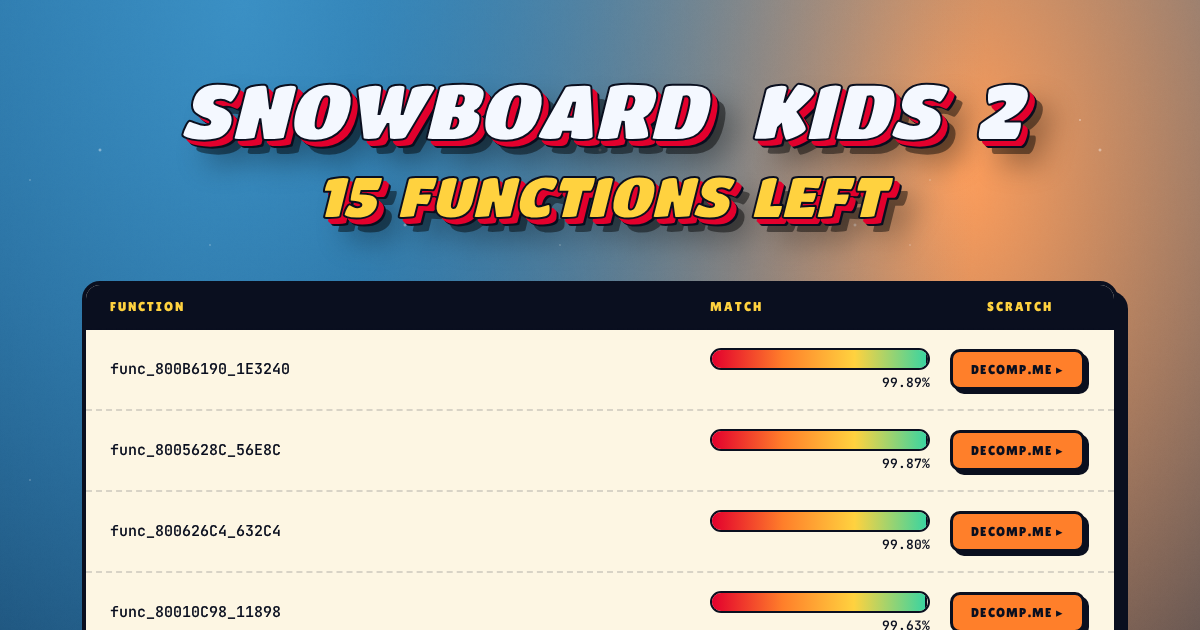
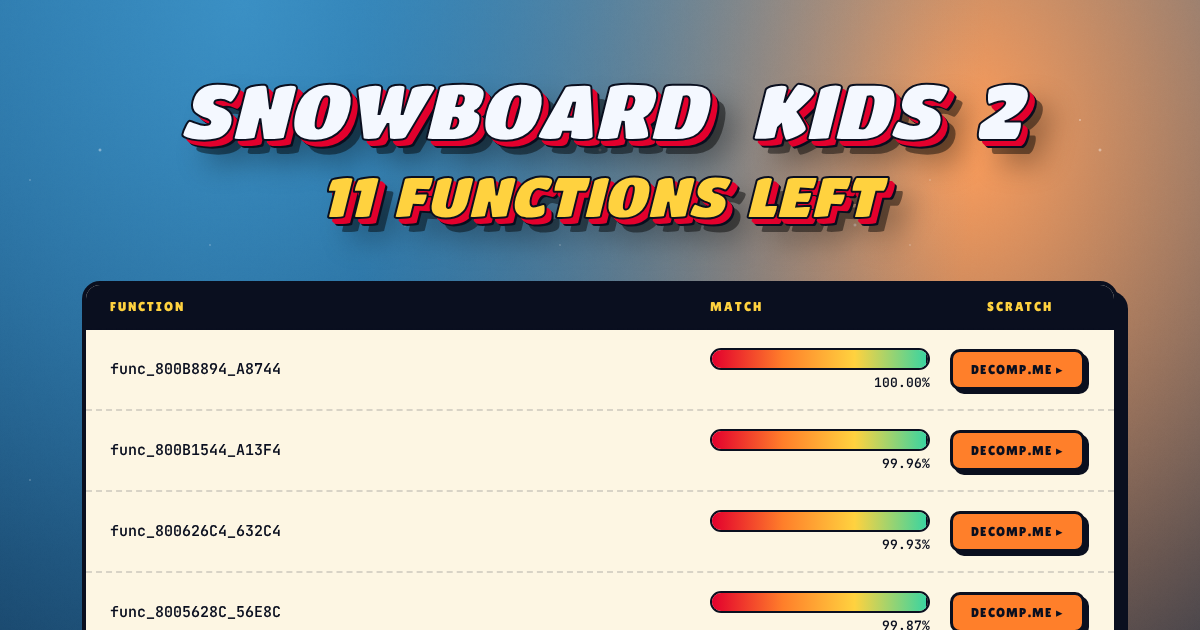
Add og:title and og:description meta tags to leaderboard page

diff --git a/docs/index.html b/docs/index.html
@@ -4,6 +4,8 @@
     <meta charset="UTF-8" />
     <meta name="viewport" content="width=device-width, initial-scale=1.0" />
     <title>Snowboard Kids 2 — Remaining Functions</title>
+    <meta property="og:title" content="Snowboard Kids 2 — 11 FUNCTIONS Left" />
+    <meta property="og:description" content="Snowboard Kids 2 matching decompilation progress tracker" />
     <meta property="og:image" content="og.png" />
 
     <link rel="preconnect" href="https://fonts.googleapis.com" />
@@ -302,7 +304,7 @@
             ><span>&nbsp;&nbsp;</span><span>2</span></span
           >
         </span>
-        <span class="line2"><span class="word w1"><span>1</span><span>5</span></span><span class="word w2"><span>F</span><span>U</span><span>N</span><span>C</span><span>T</span><span>I</span><span>O</span><span>N</span><span>S</span></span><span class="word w3"><span>L</span><span>E</span><span>F</span><span>T</span></span></span>
+        <span class="line2"><span class="word w1"><span>1</span><span>1</span></span><span class="word w2"><span>F</span><span>U</span><span>N</span><span>C</span><span>T</span><span>I</span><span>O</span><span>N</span><span>S</span></span><span class="word w3"><span>L</span><span>E</span><span>F</span><span>T</span></span></span>
       </h1>
     </header>
 
@@ -314,9 +316,19 @@
           <div style="text-align:center">Scratch</div>
         </div>
         <div class="board-row">
-          <div><div class="fn-name">func_800B6190_1E3240</div></div>
-          <div><div class="match-bar"><div class="match-fill" style="width:99.9%"></div></div><div class="match-num">99.89%</div></div>
-          <div><a class="scratch-btn" href="https://decomp.me/scratch/R1FVL" target="_blank" rel="noopener">decomp.me ▸</a></div>
+          <div><div class="fn-name">func_800B8894_A8744</div></div>
+          <div><div class="match-bar"><div class="match-fill" style="width:100.0%"></div></div><div class="match-num">100.00%</div></div>
+          <div><a class="scratch-btn" href="https://decomp.me/scratch/ITOFd" target="_blank" rel="noopener">decomp.me ▸</a></div>
+        </div>
+        <div class="board-row">
+          <div><div class="fn-name">func_800B1544_A13F4</div></div>
+          <div><div class="match-bar"><div class="match-fill" style="width:100.0%"></div></div><div class="match-num">99.96%</div></div>
+          <div><a class="scratch-btn" href="https://decomp.me/scratch/0pMCn" target="_blank" rel="noopener">decomp.me ▸</a></div>
+        </div>
+        <div class="board-row">
+          <div><div class="fn-name">func_800626C4_632C4</div></div>
+          <div><div class="match-bar"><div class="match-fill" style="width:99.9%"></div></div><div class="match-num">99.93%</div></div>
+          <div><a class="scratch-btn" href="https://decomp.me/scratch/172v6" target="_blank" rel="noopener">decomp.me ▸</a></div>
         </div>
         <div class="board-row">
           <div><div class="fn-name">func_8005628C_56E8C</div></div>
@@ -324,29 +336,14 @@
           <div><a class="scratch-btn" href="https://decomp.me/scratch/lg3Jr" target="_blank" rel="noopener">decomp.me ▸</a></div>
         </div>
         <div class="board-row">
-          <div><div class="fn-name">func_800626C4_632C4</div></div>
-          <div><div class="match-bar"><div class="match-fill" style="width:99.8%"></div></div><div class="match-num">99.80%</div></div>
-          <div><a class="scratch-btn" href="https://decomp.me/scratch/aw3nY" target="_blank" rel="noopener">decomp.me ▸</a></div>
-        </div>
-        <div class="board-row">
           <div><div class="fn-name">func_80010C98_11898</div></div>
           <div><div class="match-bar"><div class="match-fill" style="width:99.6%"></div></div><div class="match-num">99.63%</div></div>
           <div><a class="scratch-btn" href="https://decomp.me/scratch/ALcTm" target="_blank" rel="noopener">decomp.me ▸</a></div>
         </div>
         <div class="board-row">
-          <div><div class="fn-name">func_80022D74_23974</div></div>
-          <div><div class="match-bar"><div class="match-fill" style="width:99.3%"></div></div><div class="match-num">99.28%</div></div>
-          <div><a class="scratch-btn" href="https://decomp.me/scratch/Knuos" target="_blank" rel="noopener">decomp.me ▸</a></div>
-        </div>
-        <div class="board-row">
           <div><div class="fn-name">updateAndRenderRaceCharacters</div></div>
           <div><div class="match-bar"><div class="match-fill" style="width:98.9%"></div></div><div class="match-num">98.94%</div></div>
           <div><a class="scratch-btn" href="https://decomp.me/scratch/Oc7R6" target="_blank" rel="noopener">decomp.me ▸</a></div>
-        </div>
-        <div class="board-row">
-          <div><div class="fn-name">func_800B8894_A8744</div></div>
-          <div><div class="match-bar"><div class="match-fill" style="width:98.9%"></div></div><div class="match-num">98.87%</div></div>
-          <div><a class="scratch-btn" href="https://decomp.me/scratch/FN35S" target="_blank" rel="noopener">decomp.me ▸</a></div>
         </div>
         <div class="board-row">
           <div><div class="fn-name">func_800B3FFC_1E10AC</div></div>
@@ -359,9 +356,9 @@
           <div><a class="scratch-btn" href="https://decomp.me/scratch/oxXWc" target="_blank" rel="noopener">decomp.me ▸</a></div>
         </div>
         <div class="board-row">
-          <div><div class="fn-name">updateCharSelectNameSprites</div></div>
-          <div><div class="match-bar"><div class="match-fill" style="width:96.8%"></div></div><div class="match-num">96.85%</div></div>
-          <div><a class="scratch-btn" href="https://decomp.me/scratch/4xZjQ" target="_blank" rel="noopener">decomp.me ▸</a></div>
+          <div><div class="fn-name">func_800136E0_142E0</div></div>
+          <div><div class="match-bar"><div class="match-fill" style="width:98.0%"></div></div><div class="match-num">98.02%</div></div>
+          <div><a class="scratch-btn" href="https://decomp.me/scratch/INVcA" target="_blank" rel="noopener">decomp.me ▸</a></div>
         </div>
         <div class="board-row">
           <div><div class="fn-name">func_800175E0_181E0</div></div>
@@ -369,26 +366,11 @@
           <div><a class="scratch-btn" href="https://decomp.me/scratch/mjSZ8" target="_blank" rel="noopener">decomp.me ▸</a></div>
         </div>
         <div class="board-row">
-          <div><div class="fn-name">func_800B1544_A13F4</div></div>
-          <div><div class="match-bar"><div class="match-fill" style="width:95.0%"></div></div><div class="match-num">94.98%</div></div>
-          <div><a class="scratch-btn" href="https://decomp.me/scratch/wGgfh" target="_blank" rel="noopener">decomp.me ▸</a></div>
-        </div>
-        <div class="board-row">
-          <div><div class="fn-name">func_800136E0_142E0</div></div>
-          <div><div class="match-bar"><div class="match-fill" style="width:92.4%"></div></div><div class="match-num">92.38%</div></div>
-          <div><a class="scratch-btn" href="https://decomp.me/scratch/7DiUN" target="_blank" rel="noopener">decomp.me ▸</a></div>
-        </div>
-        <div class="board-row">
-          <div><div class="fn-name">updateStoryMapLocationMarker</div></div>
-          <div><div class="match-bar"><div class="match-fill" style="width:92.3%"></div></div><div class="match-num">92.34%</div></div>
-          <div><a class="scratch-btn" href="https://decomp.me/scratch/LghGY" target="_blank" rel="noopener">decomp.me ▸</a></div>
-        </div>
-        <div class="board-row">
           <div><div class="fn-name">func_80060CDC_618DC</div></div>
           <div><div class="match-bar"><div class="match-fill" style="width:87.4%"></div></div><div class="match-num">87.42%</div></div>
           <div><a class="scratch-btn" href="https://decomp.me/scratch/rRUTa" target="_blank" rel="noopener">decomp.me ▸</a></div>
         </div>
-<div style="text-align:center;padding:12px 24px;font-size:11px;color:#999;font-family:JetBrains Mono,monospace">Generated 2026-04-21 00:53</div>
+<div style="text-align:center;padding:12px 24px;font-size:11px;color:#999;font-family:JetBrains Mono,monospace">Generated 2026-04-21 16:27</div>
       </div>
     </main>
   </body>

diff --git a/tools/leaderboard/generate.py b/tools/leaderboard/generate.py
@@ -123,10 +123,14 @@ def generate_html(best: Dict[str, Dict]) -> str:
         flags=re.DOTALL,
     )
 
-    # Inject og:image meta tag
-    og_tag = '    <meta property="og:image" content="og.png" />\n'
+    # Inject OpenGraph meta tags
+    og_tags = (
+        f'    <meta property="og:title" content="Snowboard Kids 2 — {count} {func_text} Left" />\n'
+        '    <meta property="og:description" content="Snowboard Kids 2 matching decompilation progress tracker" />\n'
+        '    <meta property="og:image" content="og.png" />\n'
+    )
     header_part = header_part.replace(
-        "</title>", "</title>\n" + og_tag, 1
+        "</title>", "</title>\n" + og_tags, 1
     )
 
     header_row = (
